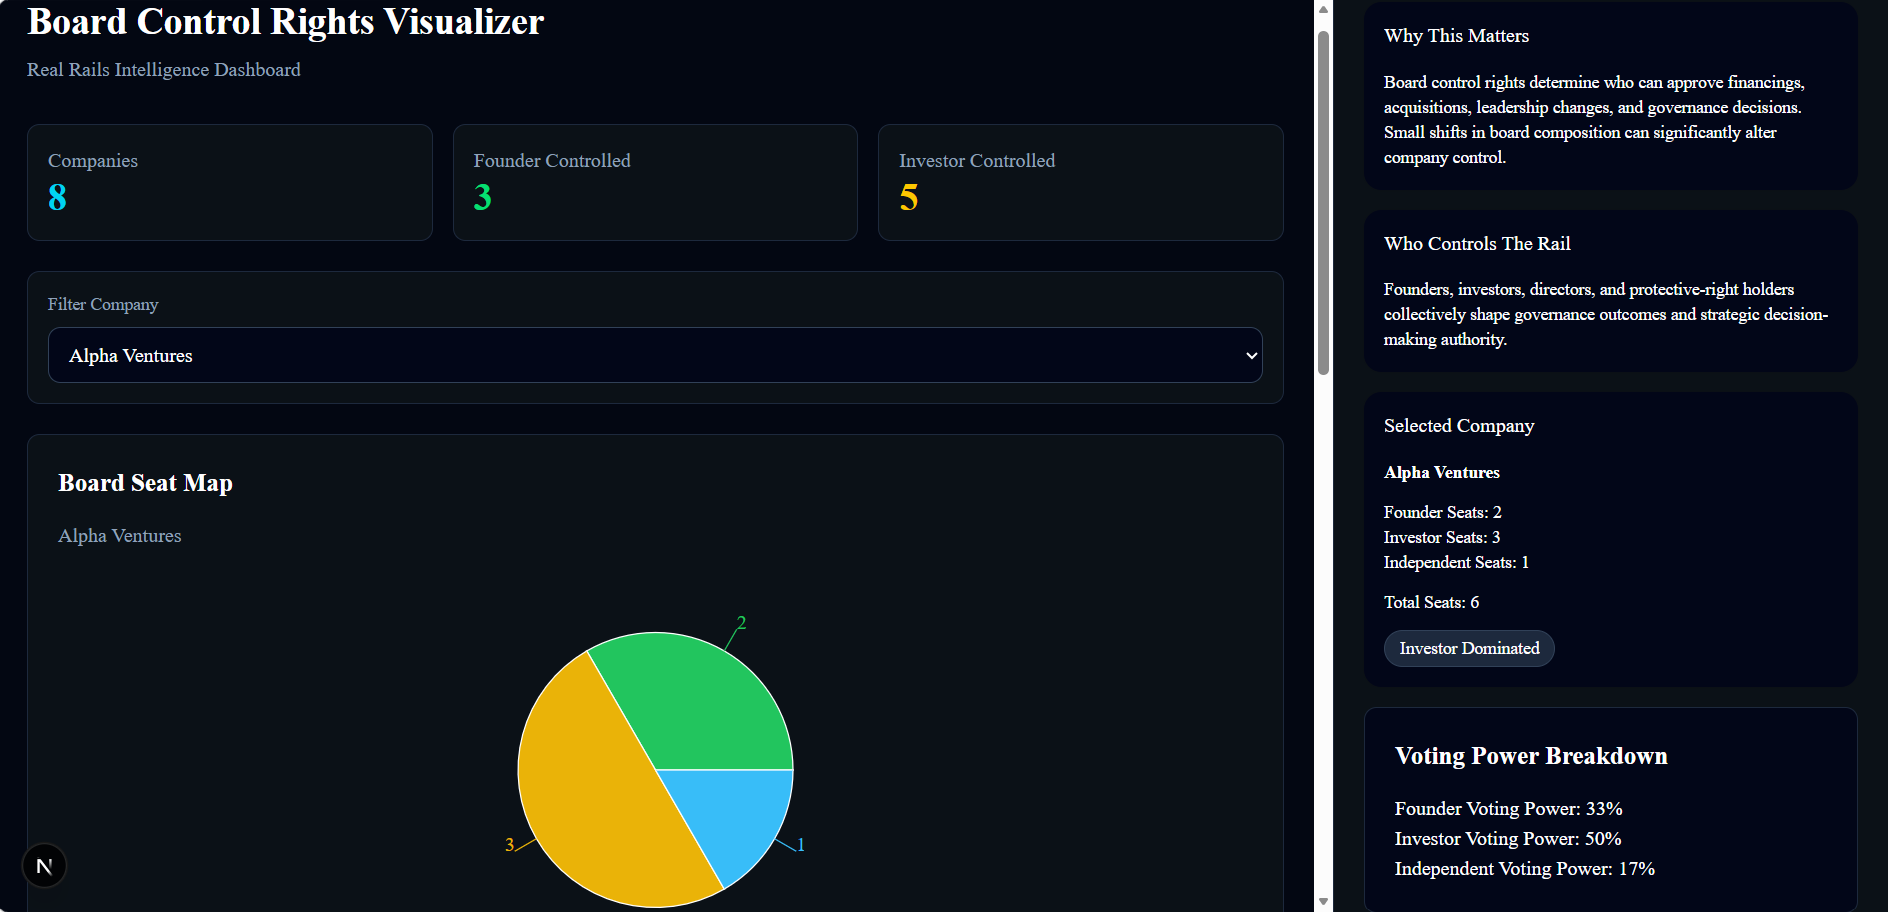
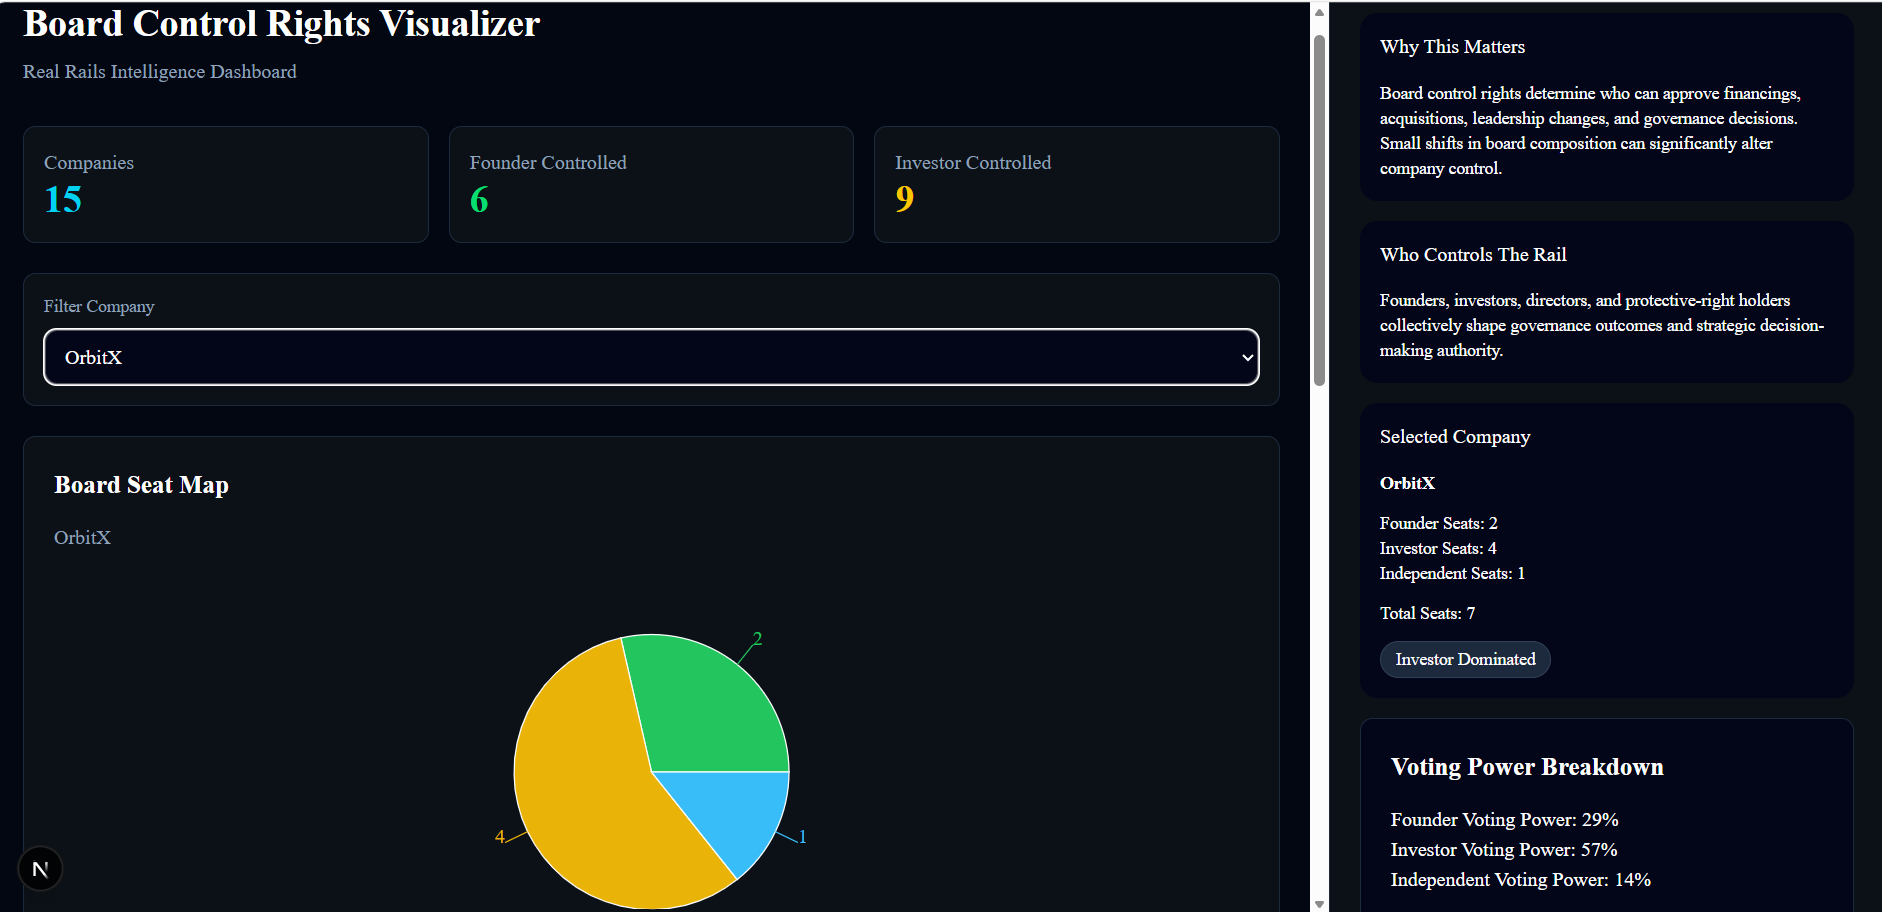
final

diff --git a/frontend/components/dashboard/Sidebar.tsx b/frontend/components/dashboard/Sidebar.tsx
@@ -6,6 +6,7 @@ import BoardMajority from "./BoardMajority";
 import GovernanceHealthScore from "./GovernanceHealthScore";
 import GovernanceTimeline from "./GovernanceTimeline";
 
+
 import {
   Card,
   CardContent,
@@ -153,6 +154,8 @@ export default function Sidebar({
       <GovernanceHealthScore
         company={selectedCompany}
       />
+
+     
 
       <Card className="bg-slate-950 border-slate-800 text-white">
         <CardHeader>